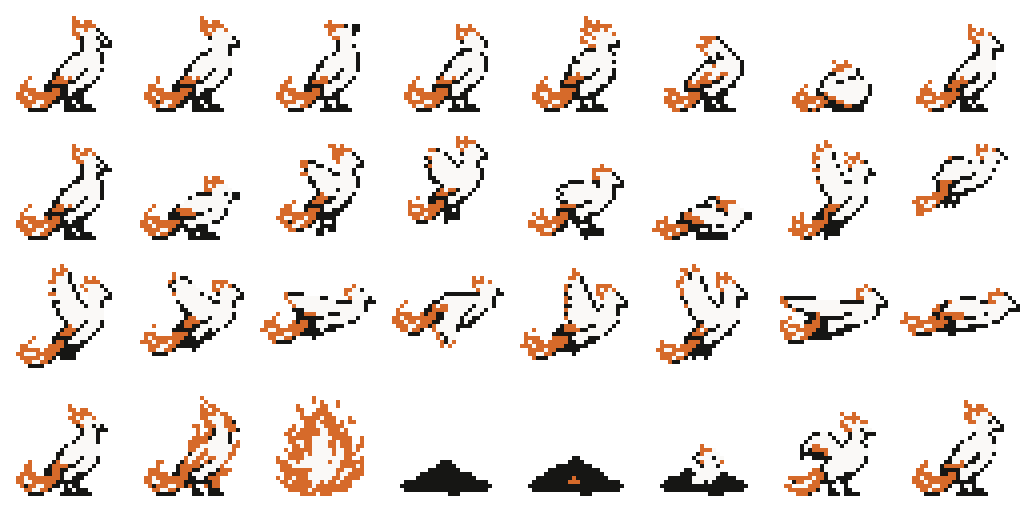
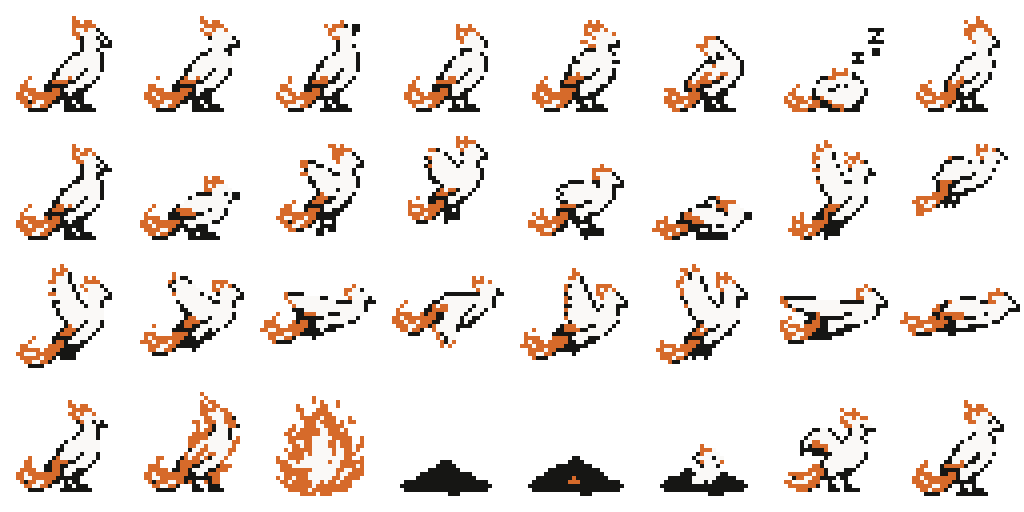
feat(phoenix): Stage E.1 - zZ while asleep, and a startle on waking
The perched row is regenerated with a distinct alert pose at frame 7, and
waking now holds it for a few ticks so it reads as a startle rather than
the bird simply resuming.

The zZ could not be generated. The reference drew two z characters about
25px wide inside a 300px sprite, and at the ~0.078 scale that maps to a
32px cell they collapsed to a single 2px dot. oneko's zZ reads because
oneko is drawn natively at 32px with its letters hand-placed at 3 to 4
pixels. So the letters are stamped in cell coordinates instead, where a
3x3 z is the smallest shape that still reads as the letter rather than a
dot.

Sprite detection needed a matching fix. A frame can contain something
separated from the body by background - the zZ above a sleeping bird - and
column-gap detection counted it as a ninth sprite. Measured on that sheet:
the z's sit 19px from the bird while every real gap between sprites is
104 to 141px, so a detached accessory is always far closer to its own
sprite than sprites are to each other. Runs closer than 40% of the median
gap are now merged. Verified against the other three rows, whose gaps are
130 to 177px and merge nothing.

Also resyncs public/phoenix.png, which had been assembled before the
Stage C anchor work and was 427 pixels stale in the rebirth row.

diff --git a/tools/phoenix/scripts/stamp_zzz.py b/tools/phoenix/scripts/stamp_zzz.py
@@ -1,0 +1,71 @@
+#!/usr/bin/env python3
+"""
+Stamp the sleeping zZ into the perched row at sprite scale.
+
+Generated lettering does not survive the downscale. The reference sheet drew
+two z characters about 25px wide inside a 300px sprite; at the ~0.078 scale
+that maps to a 32px cell they collapse to a single 2px dot. oneko's zZ reads
+because oneko is drawn natively at 32px and its letters are hand-placed at 3
+to 4 pixels.
+
+So the letters are drawn here, in cell coordinates, rather than asked for from
+the generator. Two of them, the nearer smaller than the further, rising to the
+right of the tucked head.
+"""
+
+from __future__ import annotations
+
+import json
+import sys
+from pathlib import Path
+
+from PIL import Image
+
+ROOT = Path(__file__).resolve().parents[1]
+OUTPUT_DIR = ROOT / "output"
+PALETTE_PATH = ROOT / "spec" / "palette.json"
+
+CELL = 32
+SLEEP_FRAME = 6
+
+# A 3x3 z is the smallest that still reads as the letter: top bar, diagonal,
+# bottom bar. Anything smaller is a dot, which is what the generator produced.
+Z_SMALL = ["###", ".#.", "###"]
+Z_LARGE = ["####", "..#.", ".#..", "####"]
+
+# Placed to the upper right of the tucked head, angled away from the body.
+PLACEMENTS = [(Z_SMALL, 21, 13), (Z_LARGE, 25, 7)]
+
+
+def main() -> int:
+    row = sys.argv[1] if len(sys.argv) > 1 else "perched"
+    path = OUTPUT_DIR / f"phoenix-{row}.png"
+    ink = tuple(json.loads(PALETTE_PATH.read_text())["colors"]["ink"])
+
+    sheet = Image.open(path).convert("RGBA")
+    px = sheet.load()
+    ox = SLEEP_FRAME * CELL
+
+    stamped = 0
+    for glyph, gx, gy in PLACEMENTS:
+        for dy, line in enumerate(glyph):
+            for dx, ch in enumerate(line):
+                if ch != "#":
+                    continue
+                x, y = ox + gx + dx, gy + dy
+                if not (ox < x < ox + CELL - 1 and 0 < y < CELL - 1):
+                    print(f"  refusing to stamp outside the cell at {x},{y}")
+                    return 1
+                px[x, y] = ink
+                stamped += 1
+
+    sheet.save(path)
+    sheet.resize((sheet.width * 8, sheet.height * 8), Image.NEAREST).save(
+        OUTPUT_DIR / f"phoenix-{row}-preview.png"
+    )
+    print(f"  stamped {stamped} ink pixels into frame {SLEEP_FRAME} of {row}")
+    return 0
+
+
+if __name__ == "__main__":
+    raise SystemExit(main())

diff --git a/tools/phoenix/scripts/build_row.py b/tools/phoenix/scripts/build_row.py
@@ -96,7 +96,27 @@ def find_sprites(im):
     for band, (y0, y1) in enumerate(
         bands(0, h, lambda y: any(not is_magenta(px[x, y]) for x in range(0, w, 3)))
     ):
-        for x0, x1 in bands(0, w, lambda x: any(not is_magenta(px[x, y]) for y in range(y0, y1 + 1))):
+        cols = bands(0, w, lambda x: any(not is_magenta(px[x, y]) for y in range(y0, y1 + 1)))
+
+        # Merge detached accessories back into their sprite. A frame can contain
+        # something separated from the body by background - the zZ above a
+        # sleeping bird - and a column gap alone would count it as its own
+        # sprite. Measured on that sheet: the z's sit 19px from the bird while
+        # every real gap between sprites is 104-141px. A detached accessory is
+        # always far closer to its own sprite than sprites are to each other,
+        # so a fraction of the median gap separates the two cases cleanly.
+        if len(cols) > 1:
+            gaps = sorted(cols[i + 1][0] - cols[i][1] for i in range(len(cols) - 1))
+            median = gaps[len(gaps) // 2]
+            merged = [list(cols[0])]
+            for c in cols[1:]:
+                if c[0] - merged[-1][1] < median * 0.4:
+                    merged[-1][1] = c[1]
+                else:
+                    merged.append(list(c))
+            cols = [tuple(c) for c in merged]
+
+        for x0, x1 in cols:
             ys = [y for y in range(y0, y1 + 1) if any(not is_magenta(px[x, y]) for x in range(x0, x1 + 1))]
             # Band index matters: a raw 2x4 sheet has two source rows sitting at
             # different heights on the page, and a ground baseline computed
